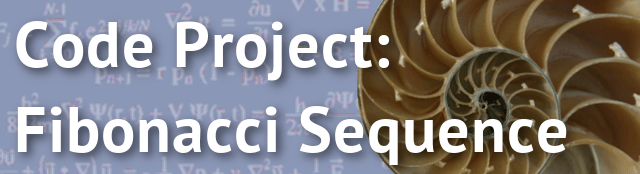
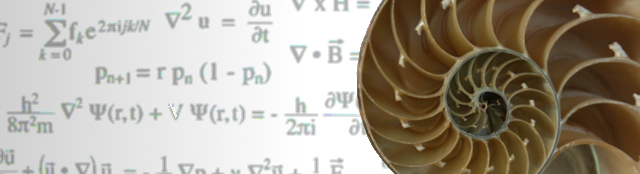
Updated images, added tag listing, minor css and code fixes

diff --git a/_layouts/blog.html b/_layouts/blog.html
@@ -2,13 +2,20 @@
 {% include  blog_nav.html %}
 {% include  aside.html %}
 	<section class="main">
-		<h1>All blog posts:</h1>
 		<article class="blog-page">
+		<h1>All blog posts:</h1>
+		<h2>By tag</h2>
+			<ul class="tags">
+			{% for tags in site.tags | sort %}
+				<li class="tag"><a href="/tags/{{ tags | first}}/index.html">{{ tags | first}}</a></li>
+			{% endfor %}
+			</ul>
+		<h2>By article</h2>
 		{% for post in site.posts %}
 			{% capture currentyear %}{{ post.date | date: "%Y" }}{% endcapture %}
 			{% if currentyear != year %}
 				{% unless forloop.first %}</ul>{% endunless %}
-				<h2>{{ currentyear }}</h2>
+				<h3>{{ currentyear }}</h3>
 				<ul>
 				{% capture year %}{{currentyear}}{% endcapture %}
 			{% endif %}

diff --git a/demo/fibonacci/fibonacci.js b/demo/fibonacci/fibonacci.js
@@ -42,13 +42,12 @@
 
 	// Display the Fibonacci sequence
 	function printSequence(e) {
-		var i, textNode, sequence;
+		// Get Fibonacci sequence
+		var sequence = fibonacci(slider.value);
 		// prevent default submit behavior
 		e.preventDefault();
 		// remove any previous sequence elements
 		removePrevious();
-		// Get Fibonacci sequence
-		sequence = fibonacci(slider.value);
 		// Create child <li>'s
 		sequence.forEach(function(i, idx) {
 			var li = document.createElement("li");

diff --git a/css/main.css b/css/main.css
@@ -254,7 +254,15 @@ article p {
 }
 
 .blog-page ul {
-	margin-bottom: 1em;
+	margin-bottom: 2em;
+}
+
+.blog-page ul li {
+	margin: .5em 0;
+}
+
+.blog-page h3 {
+	margin: .5em 0 1em 0;
 }
 
 .about {

diff --git a/_posts/2015-05-26-coding-project-fibonacci-sequence-and-a-lesson-about-closures.md b/_posts/2015-05-26-coding-project-fibonacci-sequence-and-a-lesson-about-closures.md
@@ -8,7 +8,7 @@ description: "A simple Javascript code project that displays the Fibonacci Seque
 image_path: "/img/fibonacci.png"
 ---
 
-![Title image that reads 'Coding Project: Fibonacci Sequence' with a seashell showing off the Fibonacci sequence in nature](/img/fibonacci.png "Coding Project: Fibonacci Sequence")
+![Image of a seashell on a background of mathematical formulae](/img/fibonacci.png "Fibonacci sequence in nature")
 
 In this quick coding exercise I implement the Fibonacci sequence using Javascript, allowing the user to prompt how many numbers in the sequence they would like to calculate. The function will then return that many numbers in the sequence.
 
@@ -105,7 +105,7 @@ Additional reading:
 * [5 Array Methods That You Should Be Using Right Now][11]
 
 
-*Images courtesy of [jitze][X] and [dullhunk][Y] via [CC v2.5 license][Z].*
+*Images courtesy of [jitze][12] and [dullhunk][13] via [everystockphoto.com][14], using the [CC v2.5 license][15].*
 
 [1]:http://en.wikipedia.org/wiki/Fibonacci_number
 [2]: https://github.com/karan
@@ -118,6 +118,7 @@ Additional reading:
 [9]: http://markdalgleish.com/presentations/gettingclosure/
 [10]: http://www.sitepoint.com/demystifying-javascript-closures-callbacks-iifes/
 [11]: http://colintoh.com/blog/5-array-methods-that-you-should-use-today
-[X]: http://www.everystockphoto.com/photographer.php?photographer_id=63201
-[Y]: http://www.everystockphoto.com/photographer.php?photographer_id=12070
-[Z]: http://creativecommons.org/licenses/by/2.5/
+[12]: http://www.everystockphoto.com/photographer.php?photographer_id=63201
+[13]: http://www.everystockphoto.com/photographer.php?photographer_id=12070
+[14]: http://www.everystockphoto.com
+[15]: http://creativecommons.org/licenses/by/2.5/

diff --git a/_posts/2015-05-17-using-css-and-xlst-to-transform-native-xml.md b/_posts/2015-05-17-using-css-and-xlst-to-transform-native-xml.md
@@ -6,10 +6,10 @@ tags:
  - css
 description: "A quick showcase of XLST and how to use it to transform native XML, based off some work that I did for a school assignment."
 #metadata
-image_path: "/img/xlst-white.png"
+image_path: "/img/xlst-butterfly.png"
 ---
 
-![Title image that reads 'Using CSS and XSLT to Transform Native XML'](/img/xslt-white.png "Git Solo")
+![Image of a butterfly, courtest of Magee via Pixabay](/img/xslt-butterfly.png "Butterfly by Magee via Pixabay")
 
 Towards the end of our SQL class we covered the process of converting our query output into XML. We didn't dive too much into the topic itself, but we covered the basics of transforming our output using [XSLT][1], or Extensible Stylesheet Language Transformations. Using our XML output we were able translate our XML into standard HTML tags and utilize CSS to display the information in an organized way. I'll break down what I learned and how you can display your back-end data using XSLT, too.
 
@@ -105,6 +105,8 @@ Additional Reading:
 * [XSLT on Mozilla Developer Network][5]
 * [XSLT Tutorials on IBM developerWorks][6]
 
+*Image courtesy of [magee][7] via [Pixabay][8], used under the Creative Commons License*
+
 
 [1]: http://en.wikipedia.org/wiki/XSLT
 [2]: {{ site.url }}/demo/xslt/inventorystyle.xsl
@@ -112,6 +114,8 @@ Additional Reading:
 [4]: {{ site.url }}/demo/xslt/customerownertags.xml
 [5]: https://developer.mozilla.org/en-US/docs/Web/XSLT
 [6]: http://www.ibm.com/developerworks/xml/tutorials/x-introxslt/x-introxslt.html
+[7]: https://pixabay.com/en/users/magee-830963/
+[8]: https://pixabay.com/en/butterfly-wings-insect-common-crow-686117/
 
 
 
